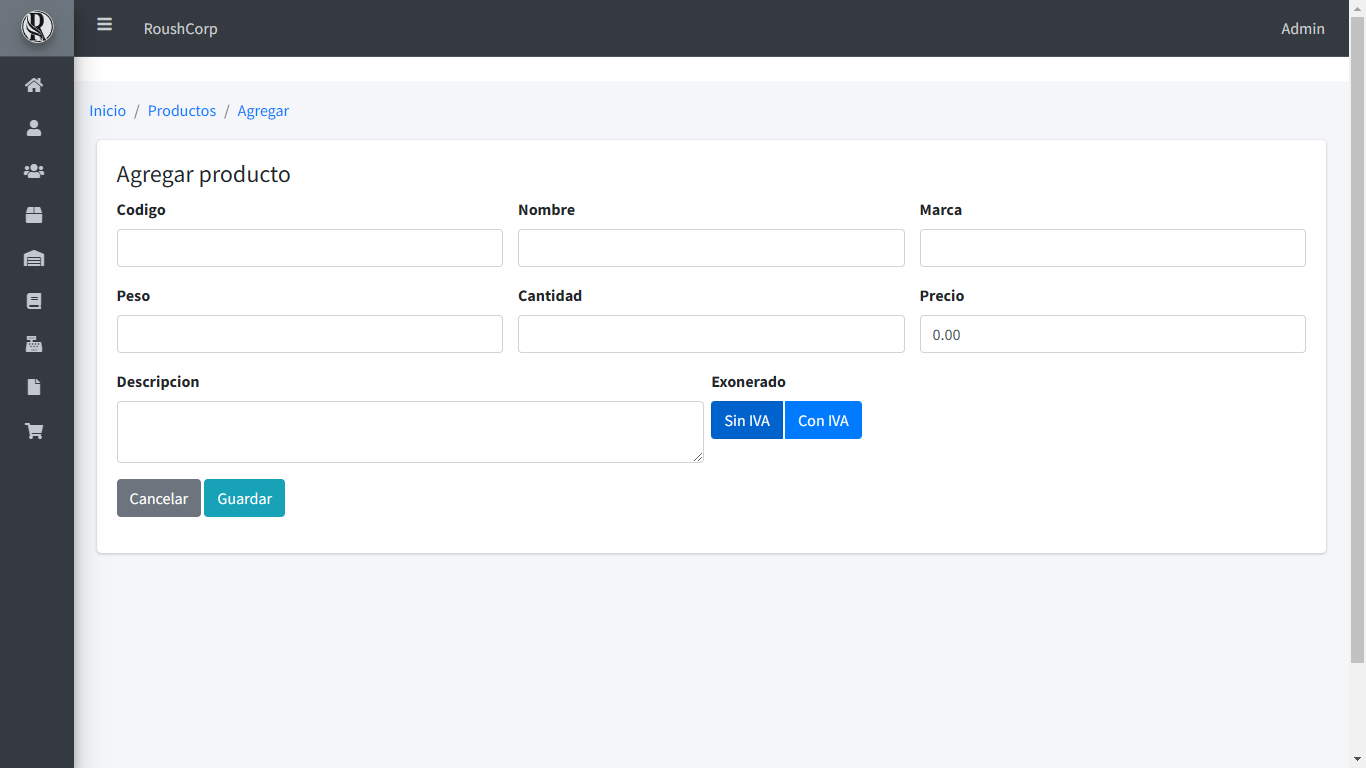
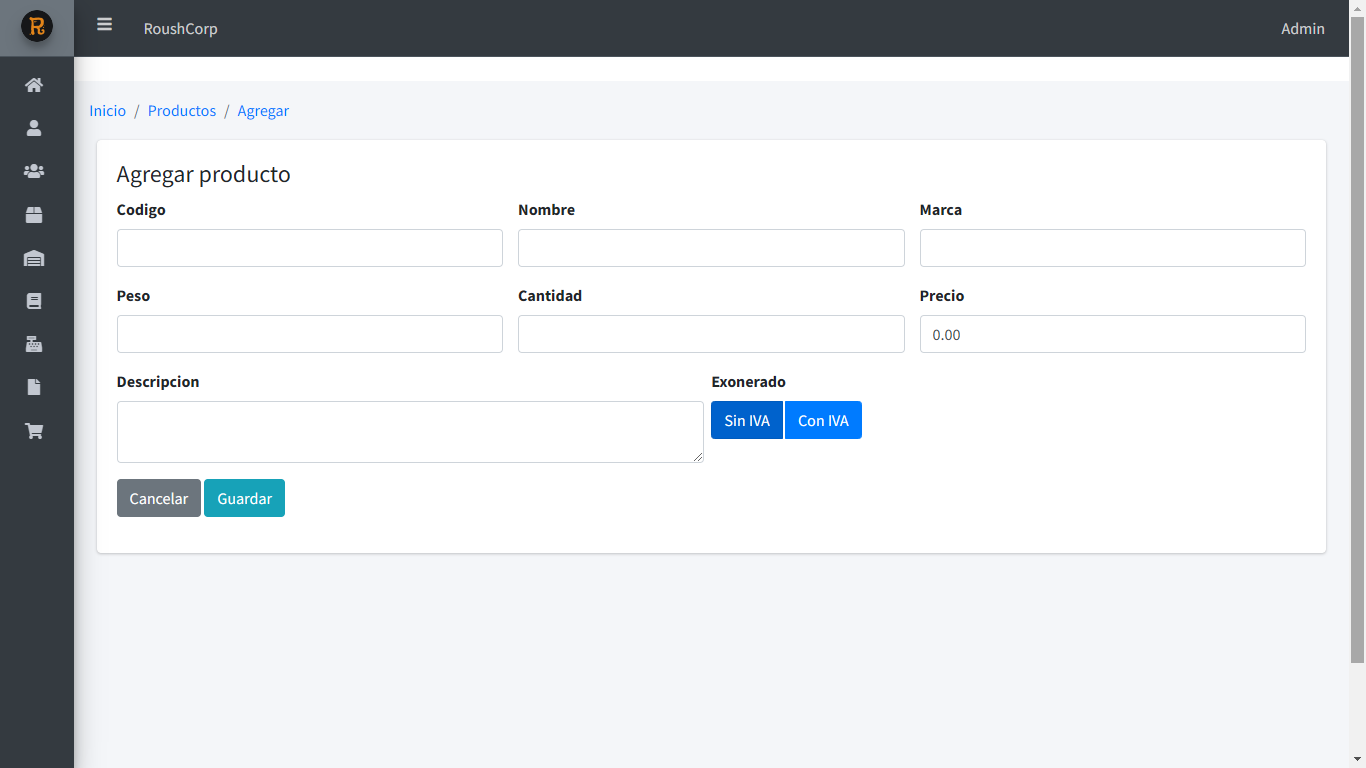
Fix Imagenes en el README

Changed region(s): [[0.9839, 0.0, 1.0, 0.875], [0.0, 0.0, 0.0615, 0.0625]]

diff --git a/README.md b/README.md
@@ -1,5 +1,3 @@
-![Alt text](public/img/Logo%20RoushCorp.jpg)
-
 ## Sistema de Ventas
 
 Proyecto de **Sistema para la gestión de ventas** desarrollado con Laravel y Livewire para la materia Desarrollo de Software Avanzado
@@ -126,9 +124,15 @@ Usuario para prueba como Administrador:
 
 ![Agregar Producto](public/img/Agregar%20Producto.png)
 
+### Lista de Productos
+![Lista de productos](public/img/Lista%20de%20productos.png)
+
 ### Agregar Cliente
 
 ![Crear Cliente](public/img/Crear%20Cliente.png)
+
+### Agregar Almacen
+![Agregar almacen](public/img/Agregar%20almacen.png)
 
 ### Registrar Usuario
 
